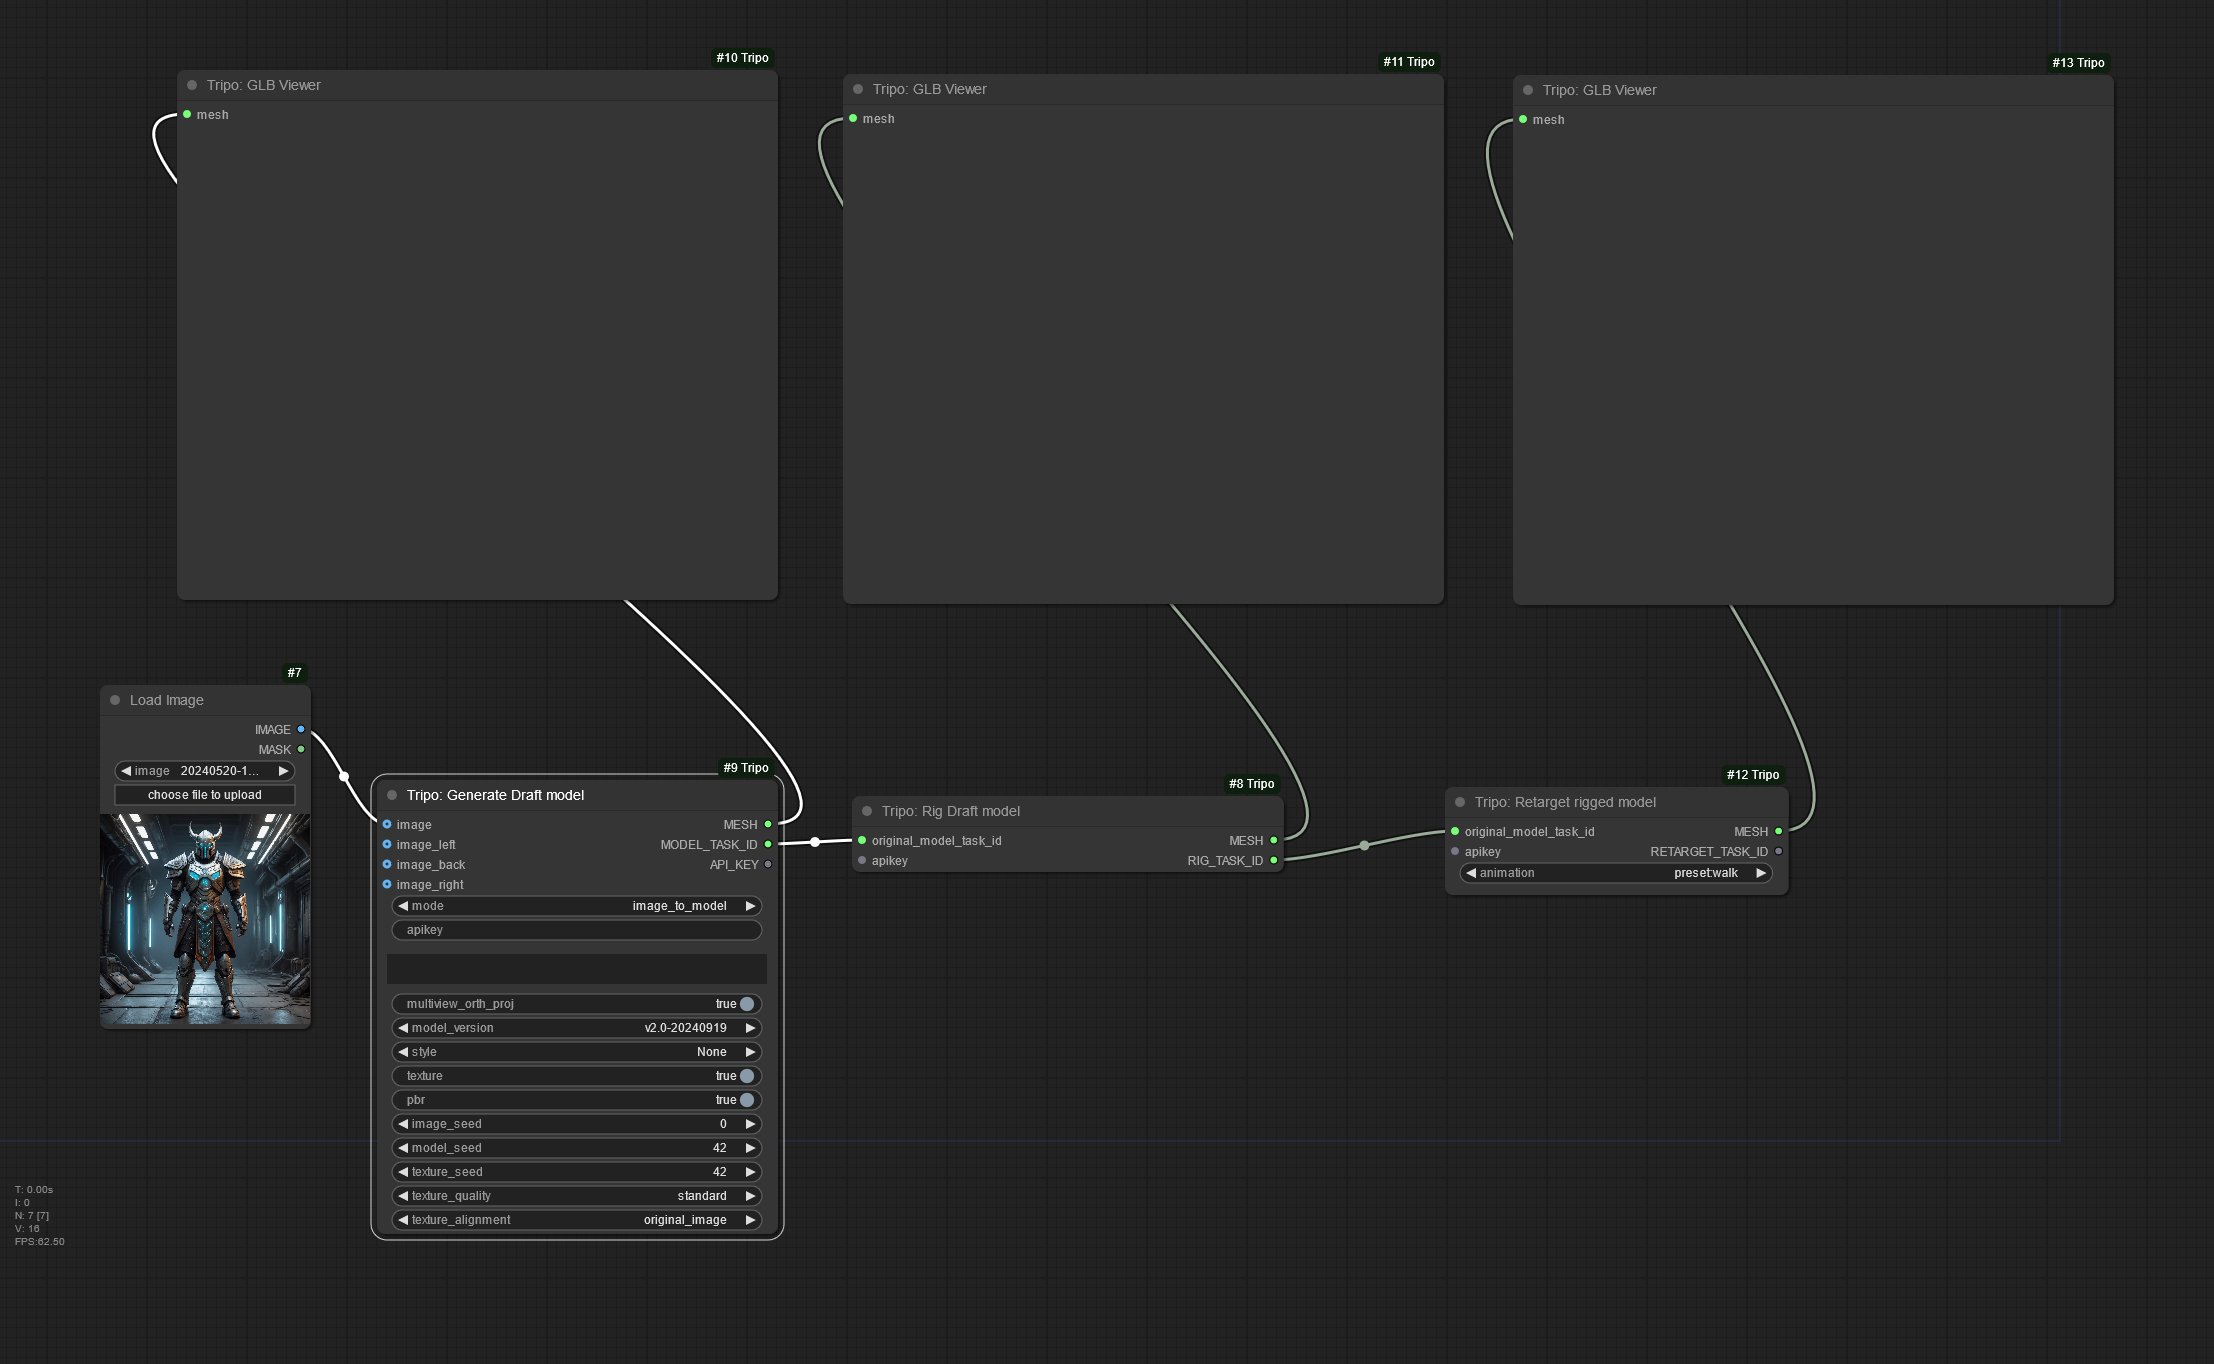
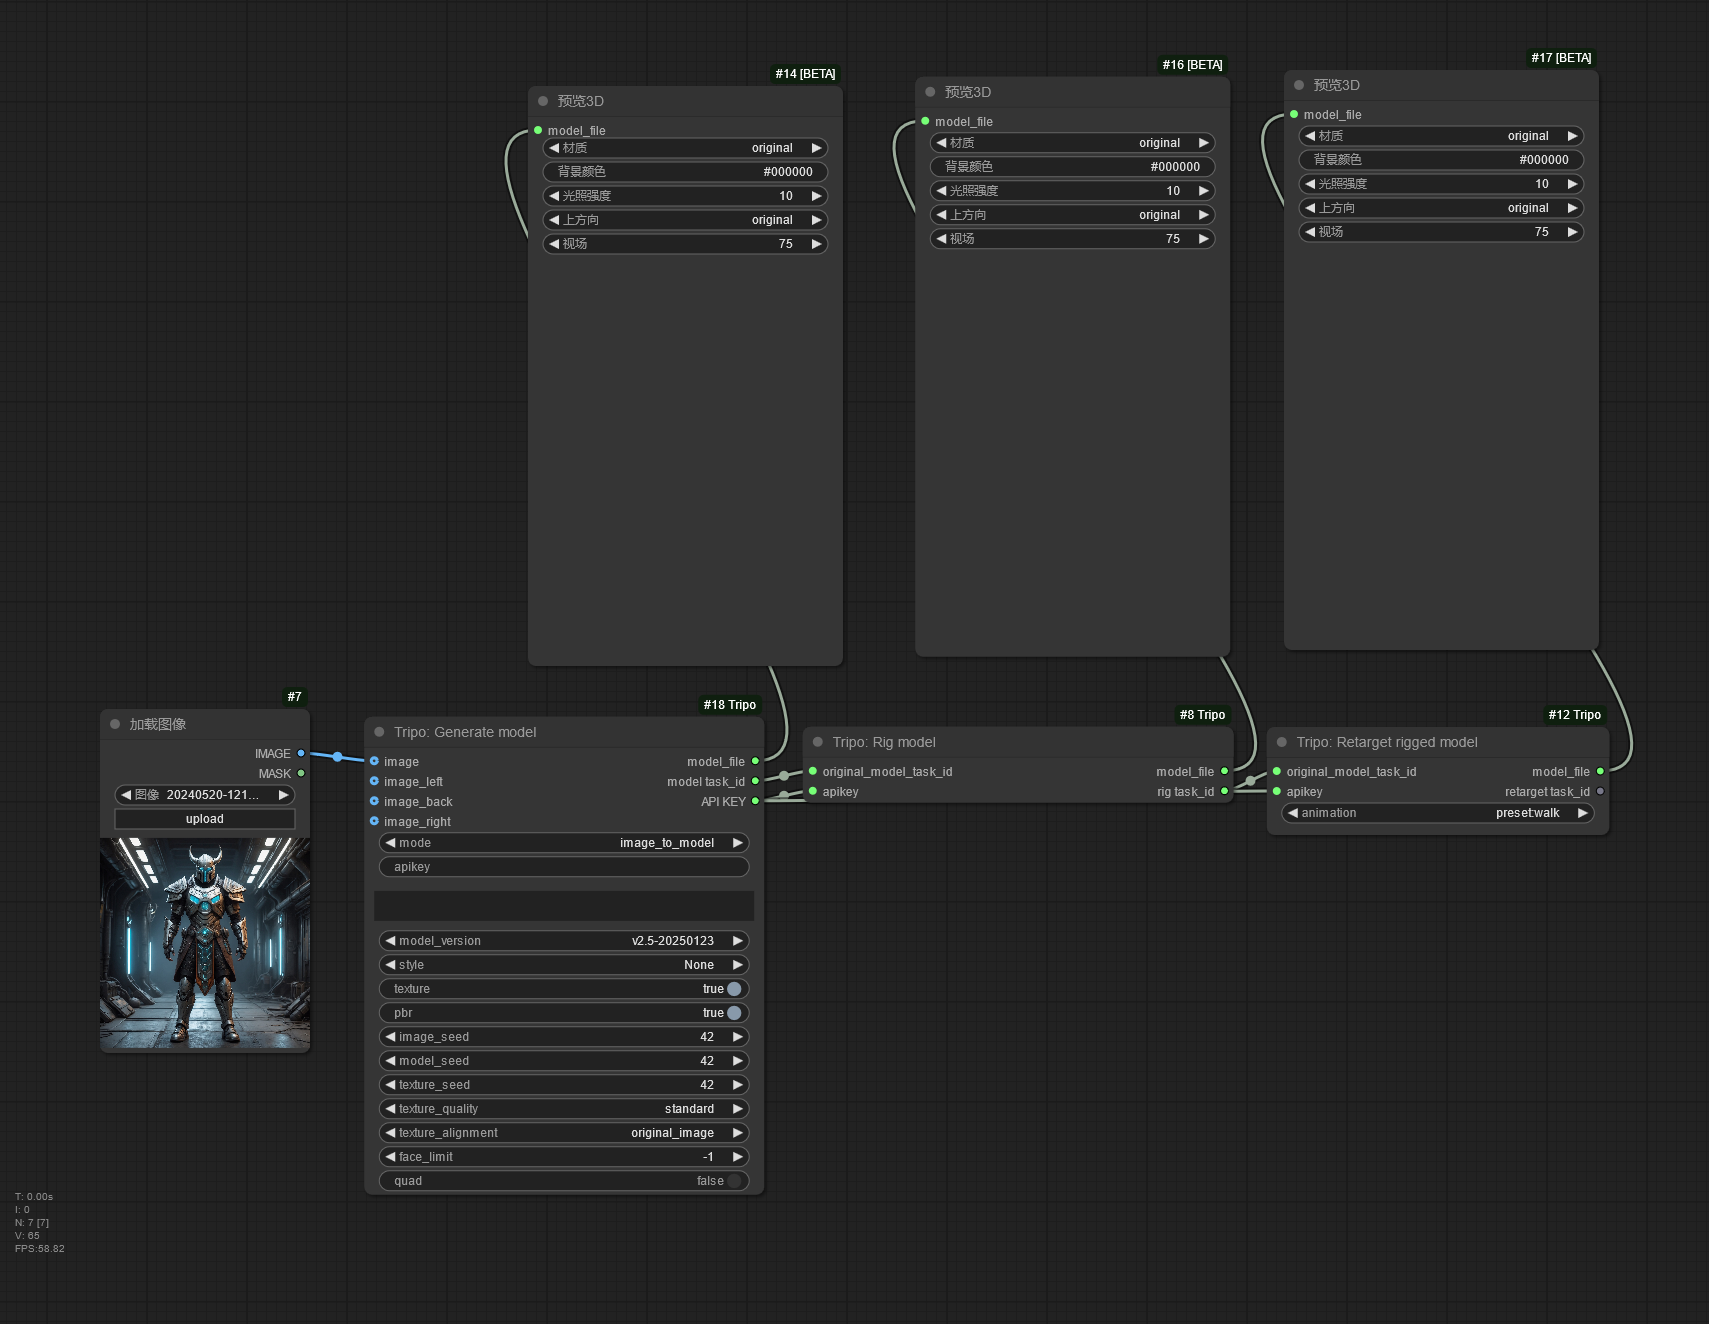
update v2.5; update 3d viewer

diff --git a/__init__.py b/__init__.py
@@ -25,7 +25,7 @@ class TripoGLBViewer:
     def INPUT_TYPES(s):
         return {
             "required": {
-                "mesh": ("MESH",)
+                "mesh": ("STRING",)
             }
         }
 
@@ -57,9 +57,9 @@ class TripoAPIDraft:
                 "image_left": ("IMAGE",),
                 "image_back": ("IMAGE",),
                 "image_right": ("IMAGE",),
-                "multiview_orth_proj": ("BOOLEAN", {"default": False}),
-                "model_version": (["v1.4-20240625", "v2.0-20240919"], {"default": "v2.0-20240919"}),
-                "style": (["person:person2cartoon", "animal:venom", "object:clay", "object:steampunk", "None"], {"default": "None"}),
+                "model_version": (["v1.4-20240625", "v2.0-20240919", "v2.5-20250123"], {"default": "v2.5-20250123"}),
+                "style": (["person:person2cartoon", "animal:venom", "object:clay", "object:steampunk",
+                           "object:barbie", "object:christmas", "gold", "ancient_bronze", "None"], {"default": "None"}),
                 "texture": ("BOOLEAN", {"default": True}),
                 "pbr": ("BOOLEAN", {"default": True}),
                 "image_seed": ("INT", {"default": 42}),
@@ -68,32 +68,35 @@ class TripoAPIDraft:
                 "texture_quality": (["standard", "detailed"], {"default": "standard"}),
                 "texture_alignment": (["original_image", "geometry"], {"default": "original_image"}),
                 "face_limit": ("INT", {"min": -1, "max": 500000, "default": -1}),
+                "quad": ("BOOLEAN", {"default": False}),
             }
         }
         config["required"]["apikey"] = ("STRING", {"default": ""})
         return config
 
     if not tripo_api_key:
-        RETURN_TYPES = ("MESH", "MODEL_TASK_ID", "API_KEY",)
+        RETURN_TYPES = ("STRING", "MODEL_TASK_ID", "API_KEY",)
+        RETURN_NAMES = ("model_file", "model task_id", "API KEY")
     else:
-        RETURN_TYPES = ("MESH", "MODEL_TASK_ID",)
+        RETURN_TYPES = ("STRING", "MODEL_TASK_ID",)
+        RETURN_NAMES = ("model_file", "model task_id")
     FUNCTION = "generate_mesh"
     CATEGORY = "TripoAPI"
 
     def generate_mesh(self, mode, prompt=None, image=None, image_left=None, image_back=None, image_right=None,
                       multiview_orth_proj=None, apikey=None, model_version=None, texture=None, pbr=None, style=None,
-                      image_seed=None, model_seed=None, texture_seed=None, texture_quality=None, texture_alignment=None, face_limit=None):
+                      image_seed=None, model_seed=None, texture_seed=None, texture_quality=None, texture_alignment=None, face_limit=None, quad=None):
         api, key = GetTripoAPI(apikey)
 
         if mode == "text_to_model":
             if not prompt:
                 raise RuntimeError("Prompt is required")
-            result = api.text_to_3d(prompt, model_version, texture, pbr, image_seed, model_seed, texture_seed, texture_quality, face_limit)
+            result = api.text_to_3d(prompt, model_version, style, texture, pbr, image_seed, model_seed, texture_seed, texture_quality, face_limit, quad)
         elif mode == 'image_to_model':
             if image is None:
                 raise RuntimeError("Image is required")
             image_name = save_tensor(image, os.path.join(get_input_directory(), "image"))
-            result = api.image_to_3d(image_name, model_version, style, texture, pbr, model_seed, texture_seed, texture_quality, texture_alignment, face_limit)
+            result = api.image_to_3d(image_name, model_version, style, texture, pbr, model_seed, texture_seed, texture_quality, texture_alignment, face_limit, quad)
         elif mode == 'multiview_to_model':
             if image is None:
                 raise RuntimeError("front image for multiview is required")
@@ -104,12 +107,9 @@ class TripoAPIDraft:
                         any_image = i
                         break
                 if any_image is None:
-                    raise RuntimeError("any other images for multiview are required for v2.0")
+                    raise RuntimeError("any other images for multiview are required for >=v2.0")
             else:
-                if (image_left is None) ^ (image_right is None):
-                    raise RuntimeError("only one of left or right image is required for multiview v1.4")
-                if image_back is None:
-                    raise RuntimeError("back image for multiview 1.4 is required")
+                raise RuntimeError("multiview v1.4 is not supported")
             image_names = []
             for image_name in ["image", "image_left", "image_back", "image_right"]:
                 image_ = locals()[image_name]
@@ -143,7 +143,8 @@ class TripoTextureModel:
             config["required"]["apikey"] = ("API_KEY",)
         return config
 
-    RETURN_TYPES = ("MESH", "MODEL_TASK_ID",)
+    RETURN_TYPES = ("STRING", "MODEL_TASK_ID",)
+    RETURN_NAMES = ("model_file", "model task_id")
     FUNCTION = "generate_mesh"
     CATEGORY = "TripoAPI"
 
@@ -168,7 +169,8 @@ class TripoRefineModel:
             config["required"]["apikey"] = ("API_KEY",)
         return config
 
-    RETURN_TYPES = ("MESH", "MODEL_TASK_ID",)
+    RETURN_TYPES = ("STRING", "MODEL_TASK_ID",)
+    RETURN_NAMES = ("model_file", "model task_id")
     FUNCTION = "generate_mesh"
     CATEGORY = "TripoAPI"
 
@@ -195,7 +197,8 @@ class TripoAnimateRigNode:
             config["required"]["apikey"] = ("API_KEY",)
         return config
 
-    RETURN_TYPES = ("MESH", "RIG_TASK_ID")
+    RETURN_TYPES = ("STRING", "RIG_TASK_ID")
+    RETURN_NAMES = ("model_file", "rig task_id")
     FUNCTION = "generate_mesh"
     CATEGORY = "TripoAPI"
 
@@ -222,7 +225,8 @@ class TripoAnimateRetargetNode:
             config["required"]["apikey"] = ("API_KEY",)
         return config
 
-    RETURN_TYPES = ("MESH", "RETARGET_TASK_ID")
+    RETURN_TYPES = ("STRING", "RETARGET_TASK_ID")
+    RETURN_NAMES = ("model_file", "retarget task_id")
     FUNCTION = "generate_mesh"
     CATEGORY = "TripoAPI"
 

diff --git a/api/system.py b/api/system.py
@@ -72,12 +72,12 @@ class TripoAPI:
                 'task_id': None
                 }
 
-    def text_to_3d(self, prompt, model_version, texture, pbr, image_seed, model_seed, texture_seed, texture_quality, face_limit):
+    def text_to_3d(self, prompt, model_version, style, texture, pbr, image_seed, model_seed, texture_seed, texture_quality, face_limit, quad):
         start_time = time.time()
         param = {
             "prompt": prompt
         }
-        for param_name in ["model_version", "texture", "pbr", "image_seed", "model_seed", "texture_seed", "texture_quality", "face_limit"]:
+        for param_name in ["model_version", "style", "texture", "pbr", "image_seed", "model_seed", "texture_seed", "texture_quality", "face_limit", "quad"]:
             _param = locals()[param_name]
             if _param is not None:
                 param[param_name] = _param
@@ -87,7 +87,7 @@ class TripoAPI:
             start_time)
         return self._handle_task_response(response, start_time)
 
-    def image_to_3d(self, image_name, model_version, style, texture, pbr, model_seed, texture_seed, texture_quality, texture_alignment, face_limit):
+    def image_to_3d(self, image_name, model_version, style, texture, pbr, model_seed, texture_seed, texture_quality, texture_alignment, face_limit, quad):
         start_time = time.time()
         image_token = self.upload(image_name)
         if isinstance(image_token, dict):
@@ -98,7 +98,7 @@ class TripoAPI:
                 "file_token": image_token
             }
         }
-        for param_name in ["model_version", "style", "texture", "pbr", "model_seed", "texture_seed", "texture_quality", "texture_alignment", "face_limit"]:
+        for param_name in ["model_version", "style", "texture", "pbr", "model_seed", "texture_seed", "texture_quality", "texture_alignment", "face_limit", "quad"]:
             _param = locals()[param_name]
             if _param is not None:
                 param[param_name] = _param
@@ -110,7 +110,7 @@ class TripoAPI:
             start_time)
         return self._handle_task_response(response, start_time)
 
-    def multiview_to_3d(self, image_names, model_version, texture, pbr, multiview_orth_proj, model_seed, texture_seed, texture_quality, texture_alignment, face_limit):
+    def multiview_to_3d(self, image_names, model_version, texture, pbr, multiview_orth_proj, model_seed, texture_seed, texture_quality, texture_alignment, face_limit, quad):
         start_time = time.time()
         image_tokens = []
         for image_name in image_names:
@@ -125,27 +125,10 @@ class TripoAPI:
             param = {"files":[]}
             for image_token in image_tokens:
                 param["files"].append({"type": "jpg", "file_token": image_token})
-            for param_name in ["texture", "pbr", "texture_seed", "texture_quality", "texture_alignment", "face_limit"]:
+            for param_name in ["texture", "pbr", "texture_seed", "texture_quality", "texture_alignment", "face_limit", "quad"]:
                 _param = locals()[param_name]
                 if _param is not None:
                     param[param_name] = _param
-        else:
-            if image_tokens[1]:
-                mode = "LEFT"
-                index = 1
-            else:
-                mode = "RIGHT"
-                index = 3
-            param = {
-                "files": [
-                    {"type": "jpg", "file_token": image_tokens[0]},
-                    {"type": "jpg", "file_token": image_tokens[index]},
-                    {"type": "jpg", "file_token": image_tokens[2]}
-                ],
-                "mode": mode
-            }
-            if multiview_orth_proj is not None:
-                param["orthographic_projection"] = multiview_orth_proj
 
         for param_name in ["model_seed", "model_version"]:
             _param = locals()[param_name]
@@ -332,6 +315,6 @@ class TripoAPI:
             with open(os.path.join(subfolder, file), "wb") as f:
                 f.write(response.content)
             print(f"Saved GLB file to {subfolder}/{file}")
-            return {'status': 'success', 'model': {"sub_folder": subfolder, "filename": file}, 'task_id': task_id}
+            return {'status': 'success', 'model': os.path.join(subfolder, file), 'task_id': task_id}
         else:
             return {'status': 'error', 'message': 'Failed to download model', 'task_id': task_id}
